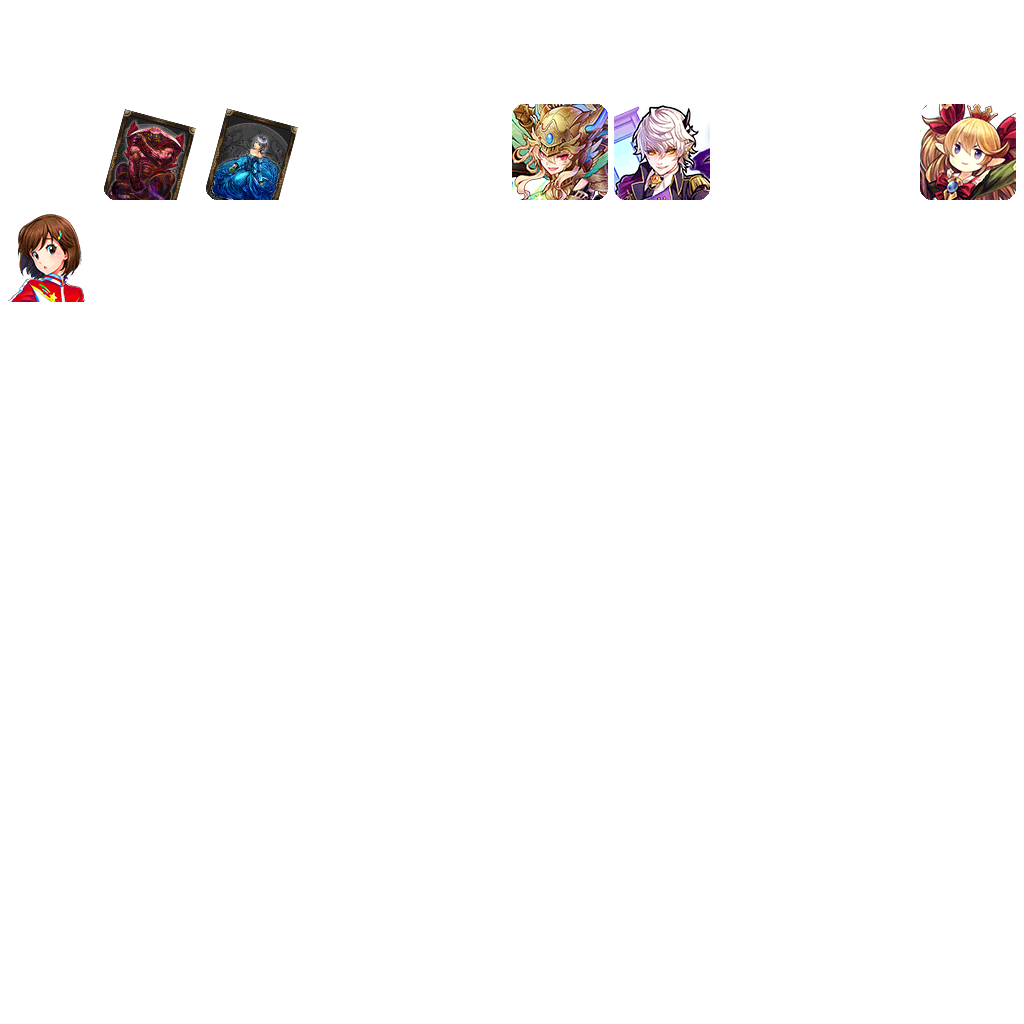
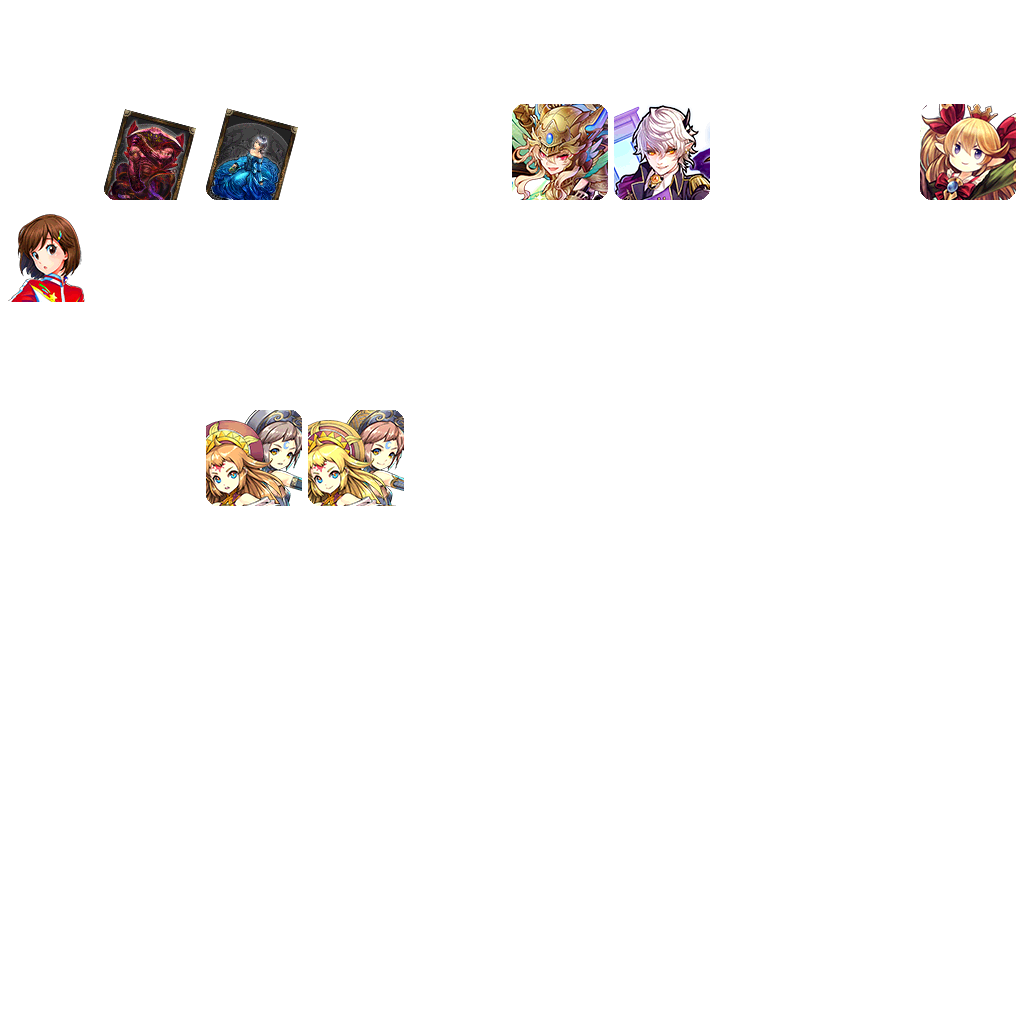
新增棒球免费宠

Changed region(s): [[0.1875, 0.375, 0.4062, 0.5]]

diff --git a/生成二技宠物JSON.js b/生成二技宠物JSON.js
@@ -147,6 +147,8 @@ var monsterList = [
     ]},
     {group: "宠物交换所（免费宠兑换）：第三方合作（限时）",ids: [
         4388, //摩爾迦納
+        4672, //早川葵
+        4678, //干達
     ]},
     {group: "宠物交换所（免费宠兑换）：GungHo其他游戏合作（限时）",ids: [
         4687, //SO135-阿蕾斯達
@@ -228,6 +230,7 @@ var monsterList = [
     {group: "MP商店：第三方合作，期间限定商品（可能不全）",ids: [
         3167, //蒼藍團長多吉龍劍
         2569, //翠輝星的麒麟・朔夜 Another
+        4677, //經理人・津乃田梨亞
     ]},
     {group: "MP商店：第三方合作-怪物猎人装备",ids: [
         3705, //猎人♂・雄火龙X装备
